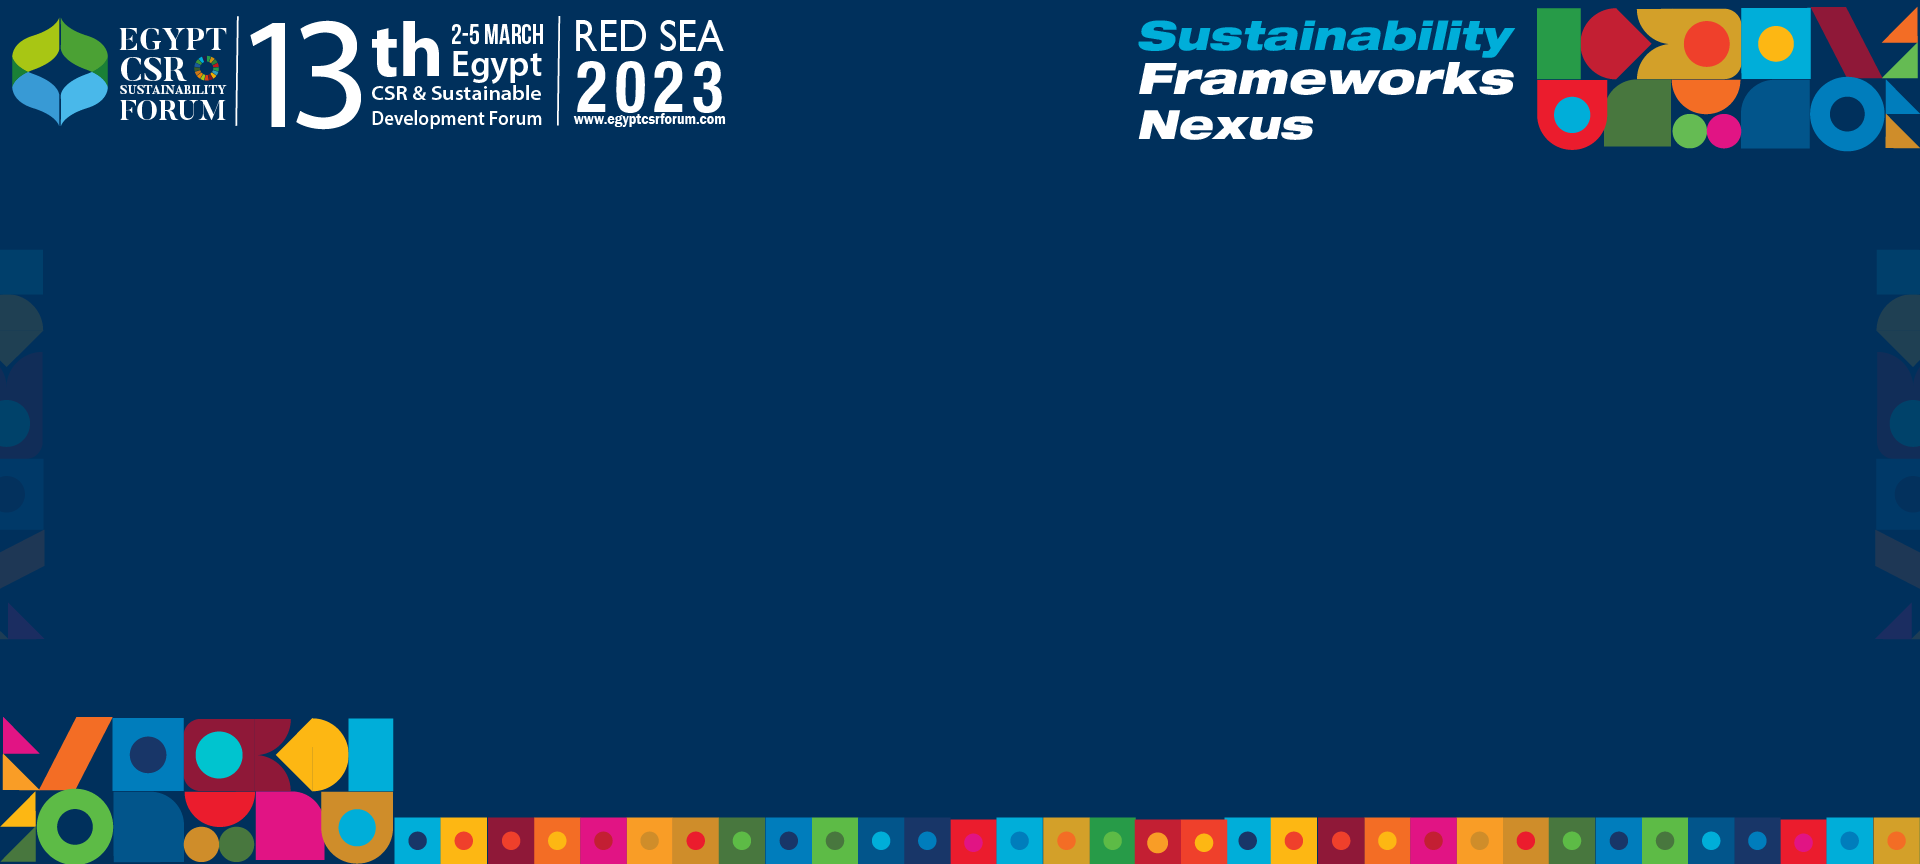
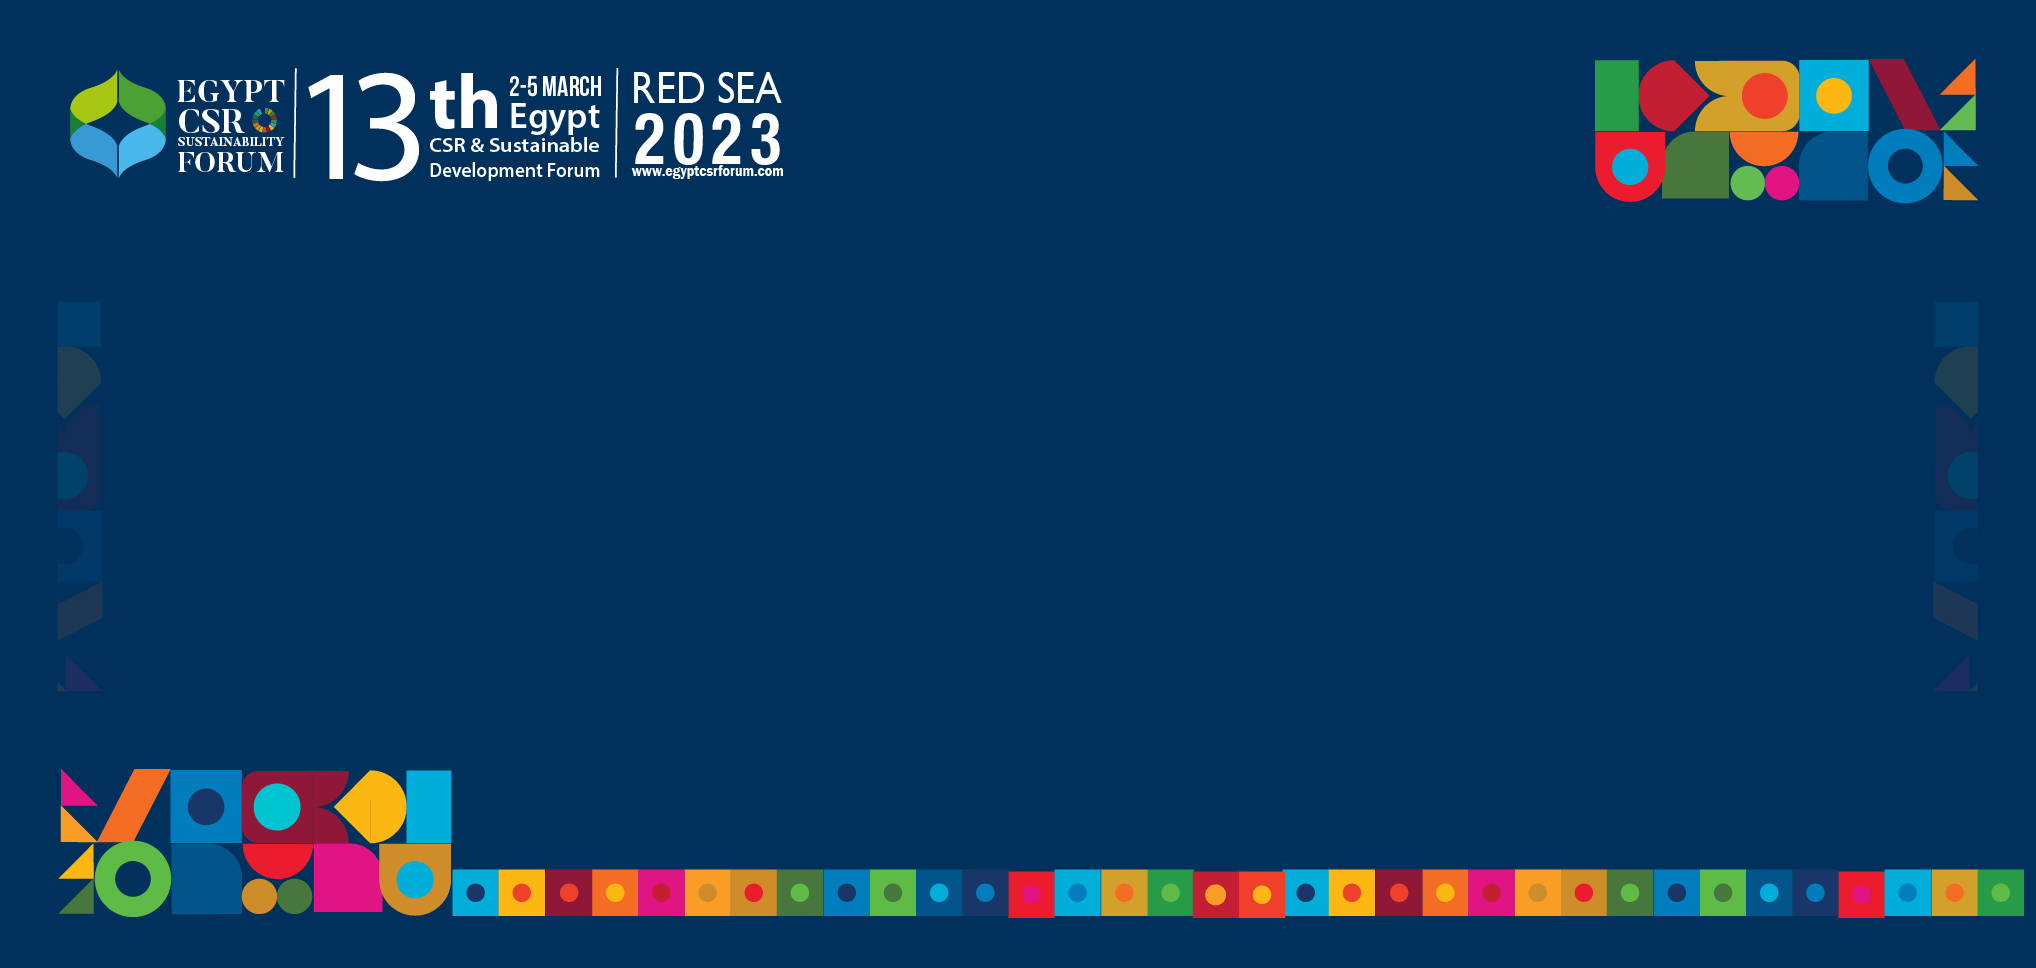
Fixsss

diff --git a/index.html b/index.html
@@ -199,7 +199,7 @@
 
         <section class="banner-section" style="zoom: 70%; background-color: #1e3965;">
             <br><br><br>
-            <div style="height: 130vh; background-image: url(/images/13th-home-new.jpg); background-position: center;"
+            <div style="height: 130vh; background-image: url(/images/13th-home-new.jpg); background-size: cover; background-position: center;"
                 class="position-relative w-100">
                 <div class="position-absolute text-white d-flex flex-column align-items-center justify-content-center"
                     style="top: 0; right: 0; bottom: 0; left: 0;">
